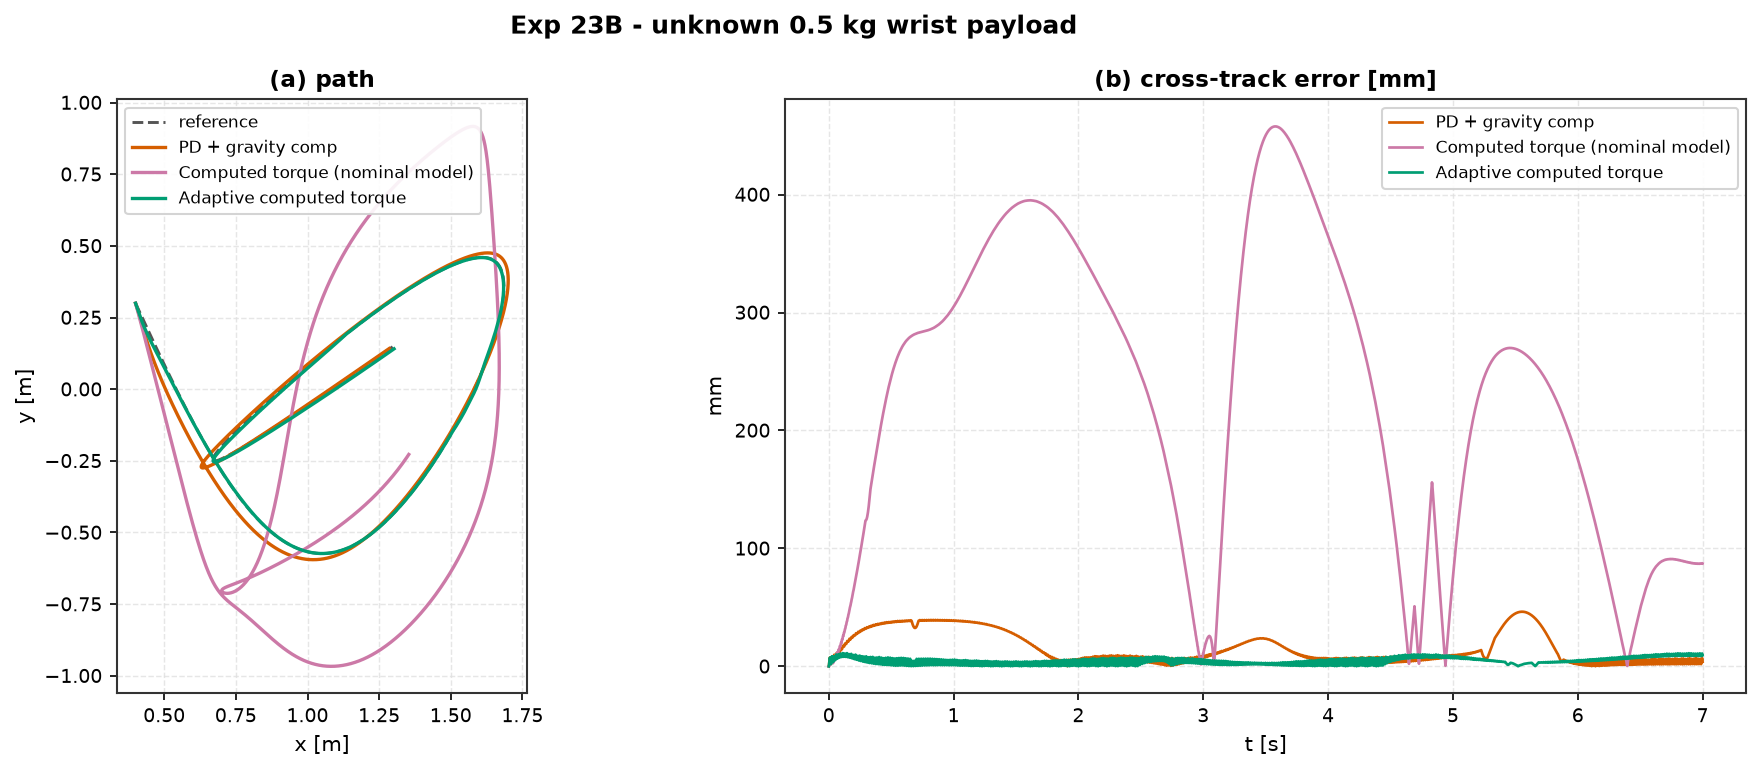
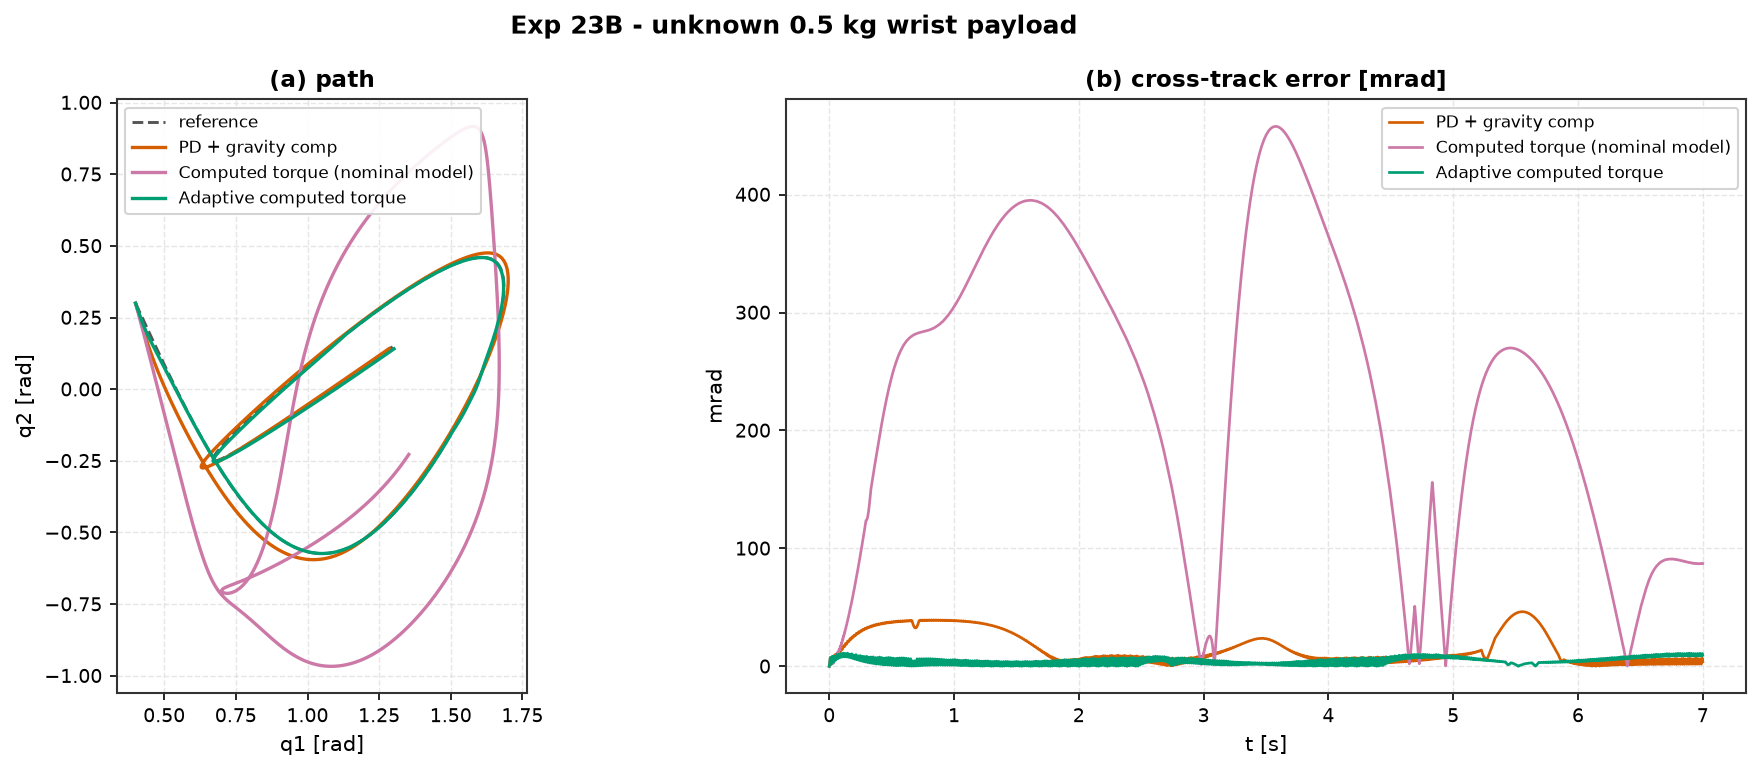
exp 23: joint-space axis labels on the tracking figures (space="joint")
Uses the new TrackingResult.space flag (2ca7c21) so the figures read
q1/q2 [rad] and cross-track [mrad] instead of x/y [m]. README note updated.

diff --git a/experiments/23_twolink_arm_tracking/run.py b/experiments/23_twolink_arm_tracking/run.py
@@ -198,6 +198,7 @@ def main():
     res_a = track_trajectory(NOM, ctrls_a, REF, X0, dt=DT, t_final=T_TOTAL,
                              pos_index=(0, 1), u_bounds=TAU_BOUNDS,
                              title="Exp 23A - two-link arm joint tracking (nominal)")
+    res_a.space = "joint"                            # q1/q2 [rad], mrad cross-track
     res_a.save(HERE)
 
     # Part B - true arm carries an unknown 0.5 kg payload
@@ -210,6 +211,7 @@ def main():
     res_b = track_trajectory(true_arm, ctrls_b, REF, X0, dt=DT, t_final=T_TOTAL,
                              pos_index=(0, 1), u_bounds=TAU_BOUNDS,
                              title="Exp 23B - unknown 0.5 kg wrist payload")
+    res_b.space = "joint"
     (HERE / "payload.md").write_text(res_b.to_markdown(), encoding="utf-8", newline="\n")
     (HERE / "payload.csv").write_text(res_b.to_csv(), encoding="utf-8", newline="\n")
     try:

diff --git a/experiments/23_twolink_arm_tracking/README.md b/experiments/23_twolink_arm_tracking/README.md
@@ -12,8 +12,9 @@ Companion: [`aimct.systems.TwoLinkArm`](../../src/aimct/systems/twolink_arm.py),
 drifting plant).
 
 > The tracking harness reports position-style metrics; here "position" is the
-> joint vector `(q1, q2)`, so **"mm" reads as milliradians** and panel (a) of
-> each figure is the joint plane, not Cartesian space.
+> joint vector `(q1, q2)`, so the figures use `space="joint"` (q1/q2 in rad,
+> cross-track in **mrad**) and the raw `*_mm` columns in `tracking.md` /
+> `payload.md` read as **milliradians**.
 
 ## Controllers
 
